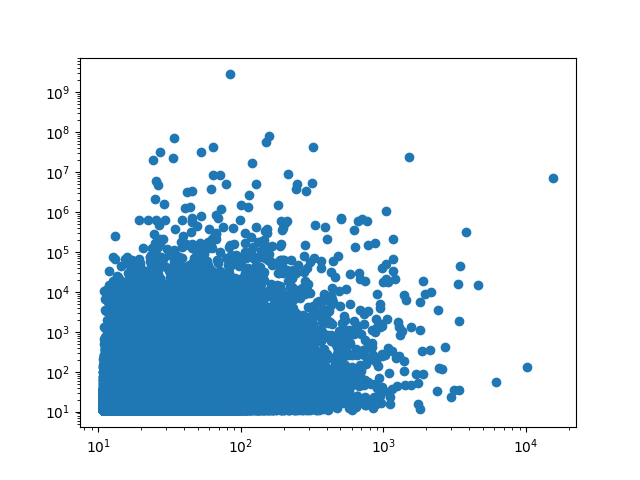
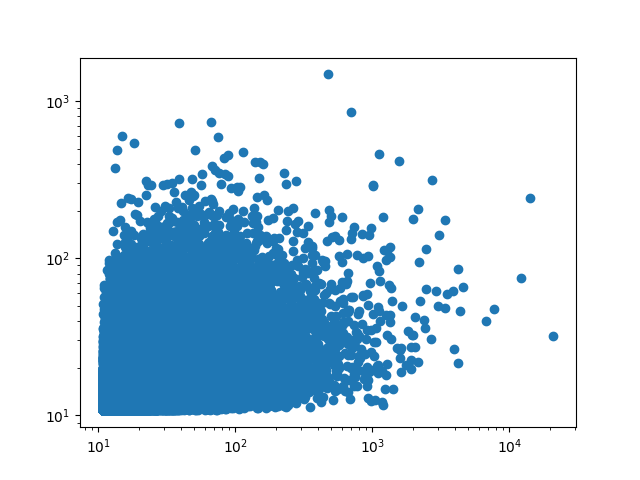
distributions added

diff --git a/dev/distributions/directed-graphs/deg_seq_gen.py b/dev/distributions/directed-graphs/deg_seq_gen.py
@@ -237,6 +237,6 @@ if __name__ == "__main__":
                                                   scale_1=scale_1,
                                                   scale_2=scale_2,
                                                   capula="gaussian",
-                                                  capula_cov_matrix=jnp.array([[1,1.0585],[1.0585,4.485]]))
+                                                  capula_cov_matrix=jnp.array([[1,-0.999],[-0.999,1]]))
     degree_seq.plot('degree_sequence_mixture.png')
     # degree_seq.save('degree_sequence_mixture.txt')

diff --git a/dev/distributions/directed-graphs/distributions.py b/dev/distributions/directed-graphs/distributions.py
@@ -48,7 +48,7 @@ def pareto_inverse_cdf(u: jnp.ndarray, scale: float, shape: float) -> jnp.ndarra
     Returns:
         jnp.ndarray: Inverse CDF of the Pareto distribution
     """
-    return scale * (u)** (-(1 / shape))
+    return scale * (1-u)** (-(1 / shape))
 
 def independent_copula_sample(key: jnp.ndarray, n: int) -> Tuple[jnp.ndarray, jnp.ndarray]:
     """
